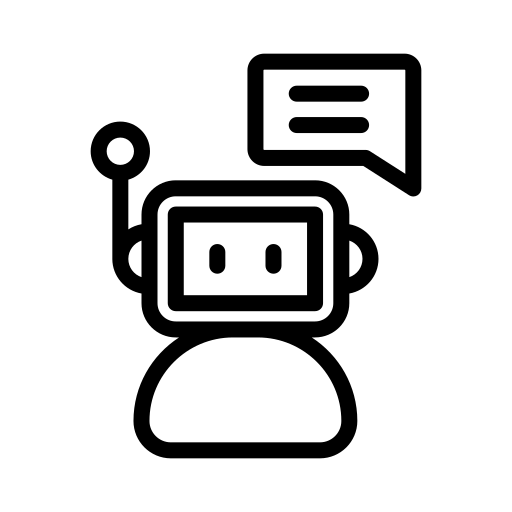
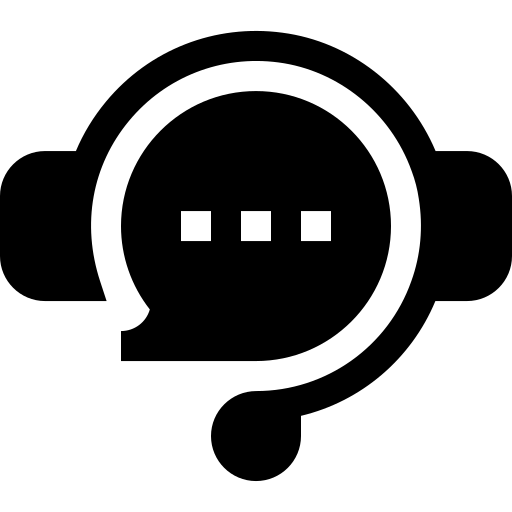
Fix: minor interface issues

diff --git a/client/src/pages/styles.css b/client/src/pages/styles.css
@@ -185,6 +185,7 @@
     width: 100vw;
 }
 
+
 .add-button img {
     height: 20px;
     width: 20px;
@@ -199,13 +200,13 @@
 .add-chat-buttons button {
     border: none;
     background: none;
-    border: 1px solid black;
     margin: 10px;
     border-radius: 50%;
     height: 70px;
     width: 70px;
-    background-color: white;
-
+    background-color: rgba(255, 255, 255, 0.25);
+    backdrop-filter: blur(8px);
+    -webkit-backdrop-filter: blur(8px);
 }
 
 @media ( max-width: 700px) {
@@ -636,7 +637,7 @@
 
 .edit-profile {
     margin: 10px;
-    margin-top: 75px;
+    margin-top: 85px;
     display: flex;
     flex-direction: column;
     align-items: center;
@@ -722,7 +723,9 @@
     margin-left: 10px;
     margin-top: 10px;
     margin-bottom: 10.5px;
+    width: auto;
 }
+
 
 
 .activity-detials-page-buttons h3 {
@@ -744,7 +747,7 @@
     border: 1px solid #D9D9D9;
     border-radius: 10px;
     padding: 10px;
-    margin-top: 75px;
+    margin-top: 85px;
 }
 
 .edit-activity-button {
@@ -1059,6 +1062,7 @@
     border-radius: 5px;
     border-left: none;
     margin-right: 10px;
+    font-size: 16px;
 }
 
 .file-input input {

diff --git a/client/src/pages/ActivityDetails.jsx b/client/src/pages/ActivityDetails.jsx
@@ -1,4 +1,4 @@
-import { act, useEffect, useState } from 'react'
+import { act, useEffect, useState, useRef } from 'react'
 import { useNavigate, useParams } from 'react-router-dom'
 import './styles.css'
 
@@ -35,6 +35,12 @@ export default function ActivityDetails() {
     useEffect(() => {
       console.log("Fetched info:", taskInfo);
     }, [taskInfo]);
+
+    const topPageRef = useRef(null);
+
+    useEffect(() => {
+    topPageRef.current?.scrollIntoView({ behavior: "smooth" });
+    }, []);
 
     const { id } = useParams()
 
@@ -176,6 +182,7 @@ export default function ActivityDetails() {
                     </button>
                 </div>
                 <div className='activity-details-page'>
+                    <div ref={topPageRef} />
                     {editing ? (
                         <>
                             <div className='edit-profile edit-task'>

diff --git a/client/src/pages/AddActivity.jsx b/client/src/pages/AddActivity.jsx
@@ -1,6 +1,6 @@
 import "./styles.css"
 import { useNavigate } from "react-router-dom"
-import { useState } from 'react';
+import { useState, useRef, useEffect } from 'react';
 import ErroMessage from '../components/ErrorMessage.jsx'
 
 
@@ -29,6 +29,12 @@ export default function AddActivity() {
             [name]: value,
         });
     }
+
+    const topPageRef = useRef(null);
+
+    useEffect(() => {
+    topPageRef.current?.scrollIntoView({ behavior: "smooth" });
+    }, []);
 
     const validate = () => {
 
@@ -103,6 +109,7 @@ export default function AddActivity() {
                 </div>
                 <div className="activity-details-page">
                     <div className='edit-profile edit-task'>
+                        <div ref={topPageRef} />
                         <form onSubmit={handleSubmit} className='edit-activity-form'>
                             <div className='edit-profile-form-sections'>
                                 <div className="edit-activity-form-section">